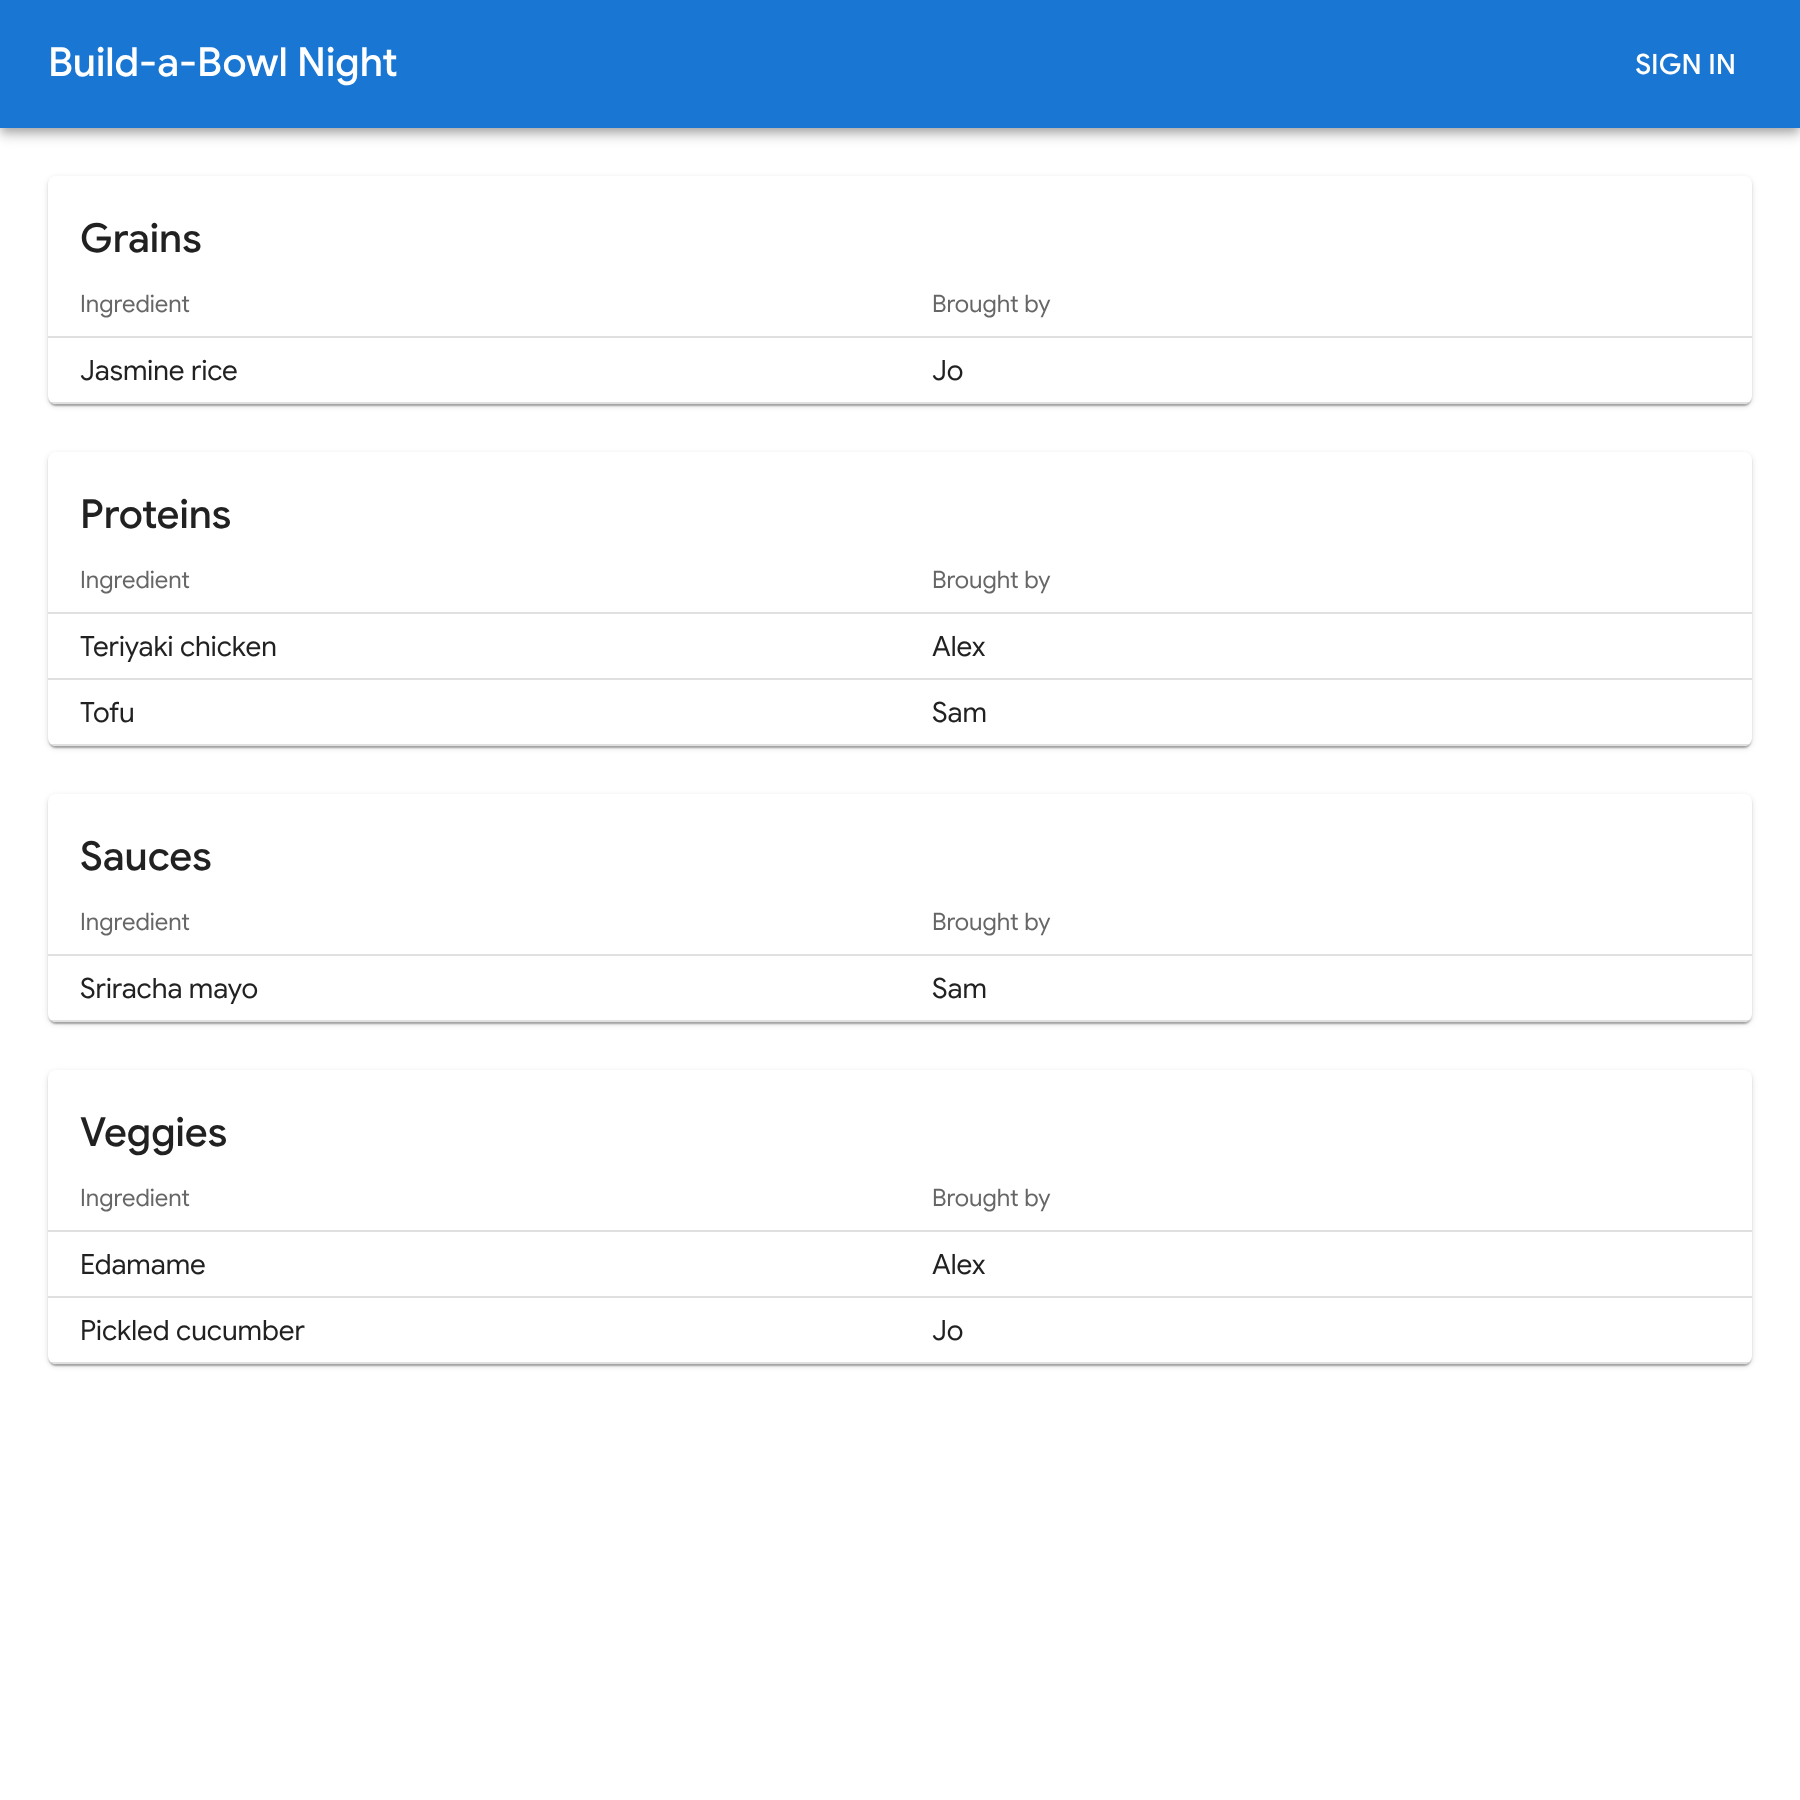
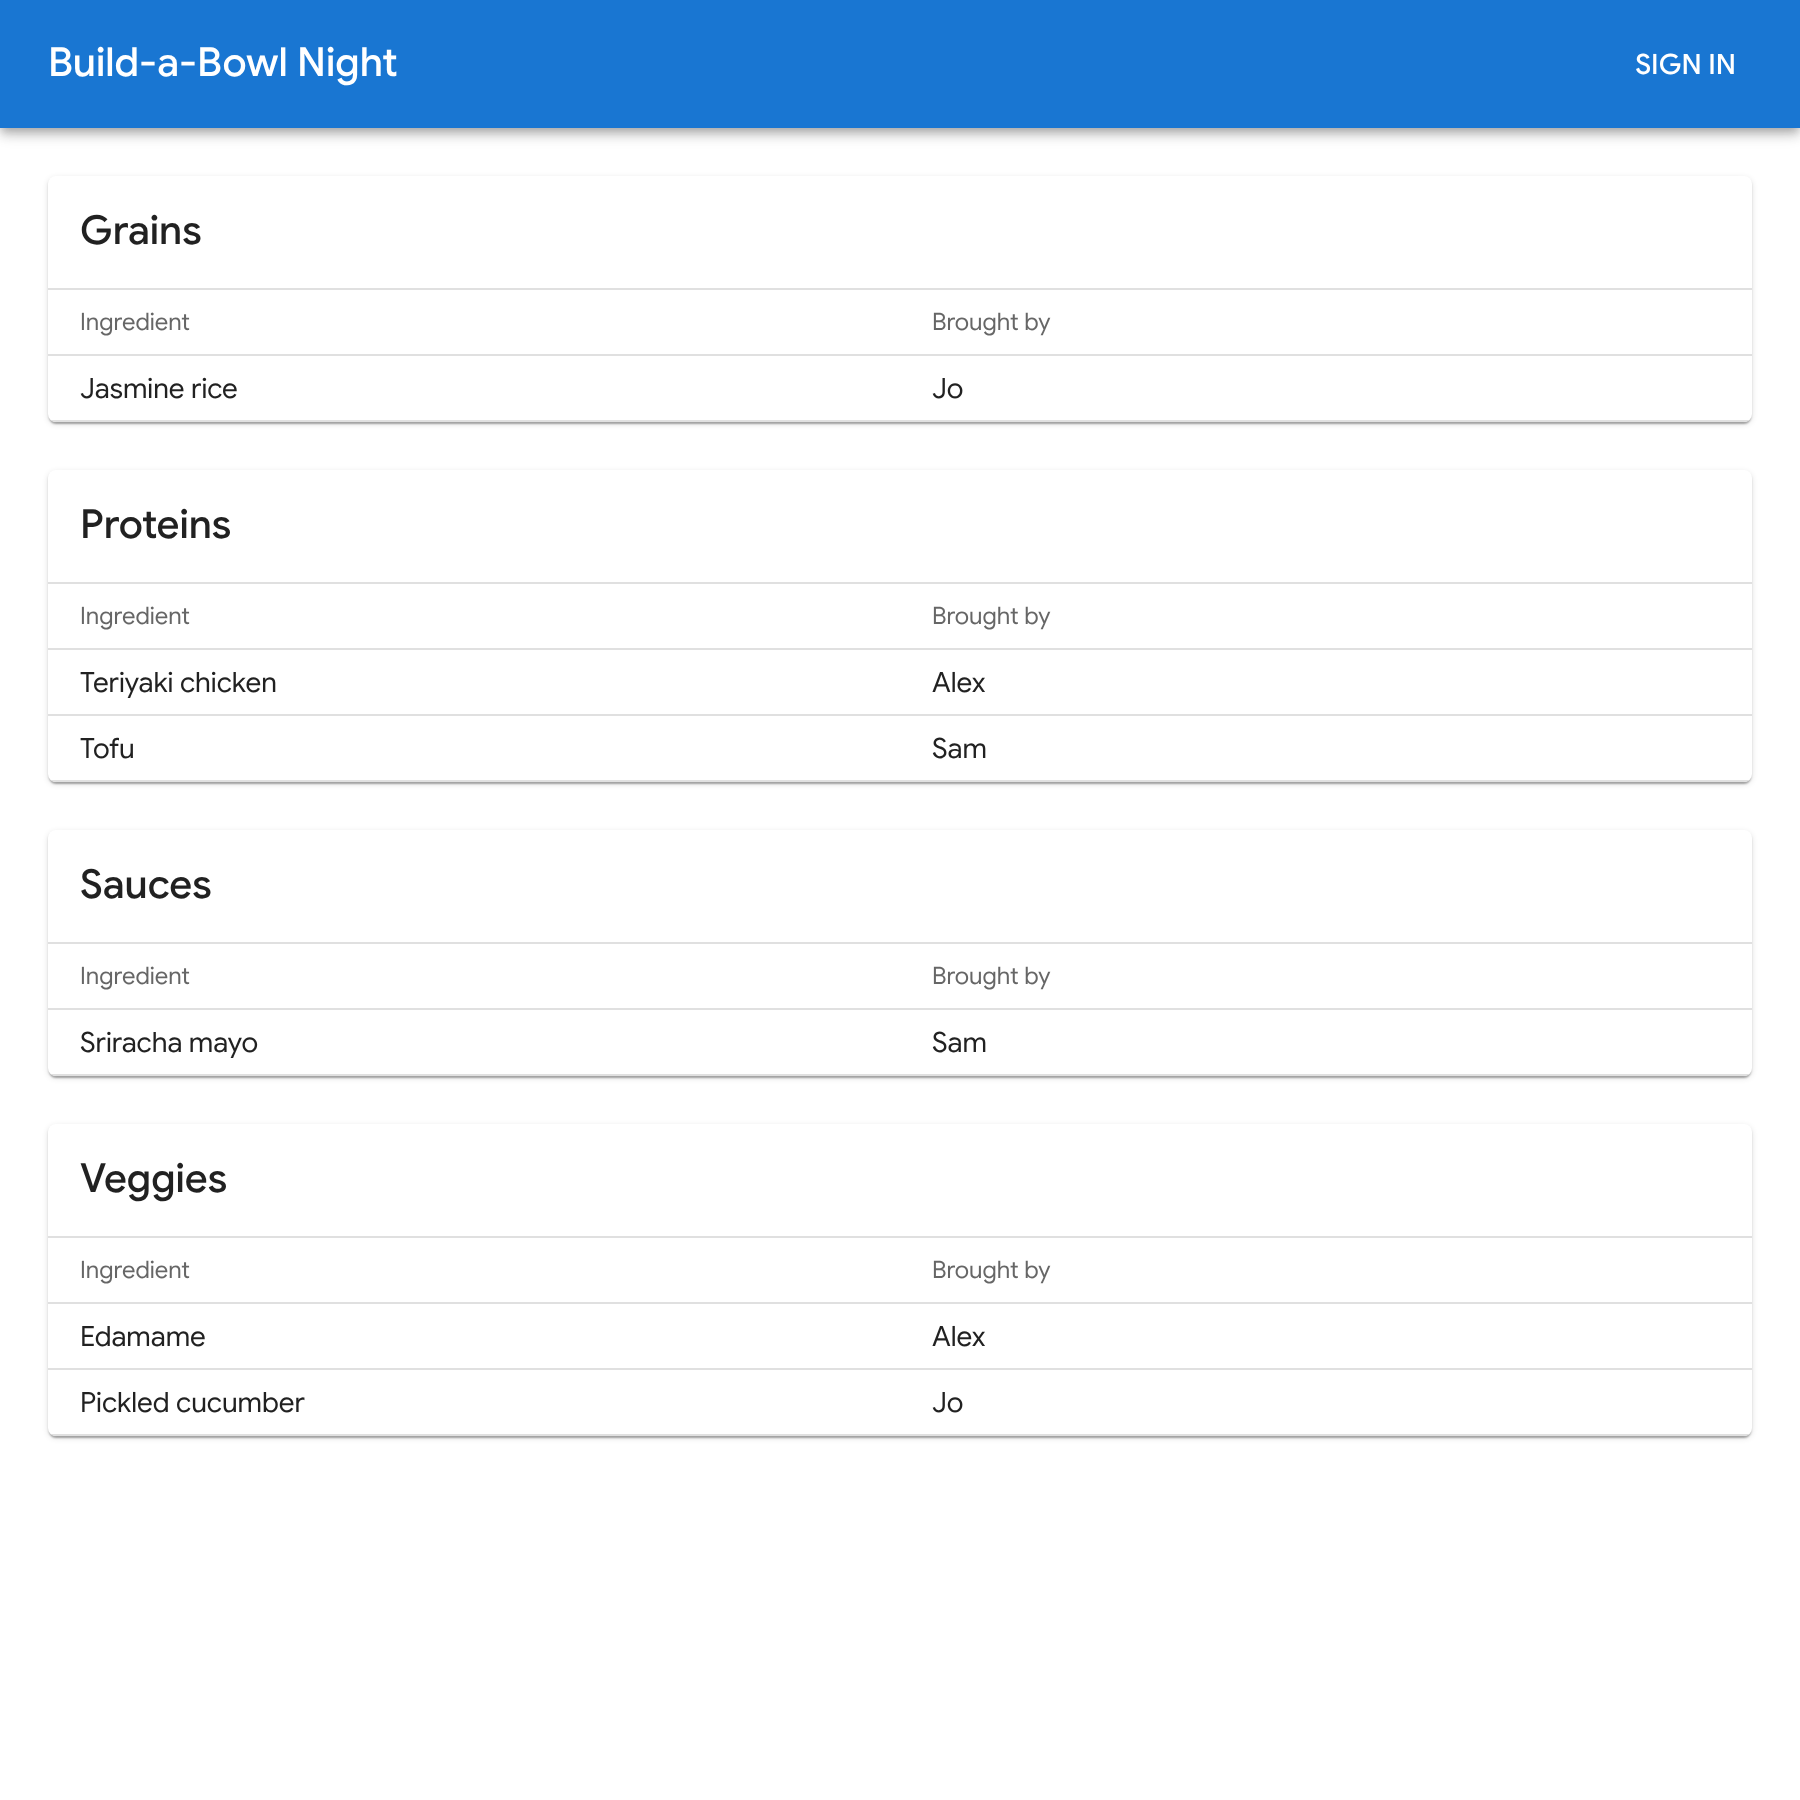
Put category title in its own bordered row above the column headers
Claude-Session: https://claude.ai/code/session_01YaXshzgAPddr5nf8bECYCv

Changed region(s): [[0.0311, 0.4667, 0.9644, 0.8089], [0.0311, 0.28, 0.9644, 0.4356], [0.0311, 0.1244, 0.9644, 0.2489]]

diff --git a/site/src/components/IngredientTable.tsx b/site/src/components/IngredientTable.tsx
@@ -25,11 +25,17 @@ export default function IngredientTable({ ingredients }: IngredientTableProps) {
     <Stack spacing={3}>
       {groups.map(([category, items]) => (
         <TableContainer key={category} component={Paper}>
-          <Typography variant="h6" component="h2" sx={{ px: 2, pt: 2 }}>
-            {category}s
-          </Typography>
           <Table size="small" sx={{ tableLayout: "fixed" }}>
             <TableHead>
+              {/* Title row spanning both columns, separated from the column headers by a normal row border. */}
+              <TableRow>
+                <TableCell colSpan={2} sx={{ py: 1.5 }}>
+                  <Typography variant="h6" component="h2">
+                    {category}s
+                  </Typography>
+                </TableCell>
+              </TableRow>
+              {/* Small column headers. */}
               <TableRow>
                 <TableCell sx={{ typography: "caption", color: "text.secondary" }}>
                   Ingredient
